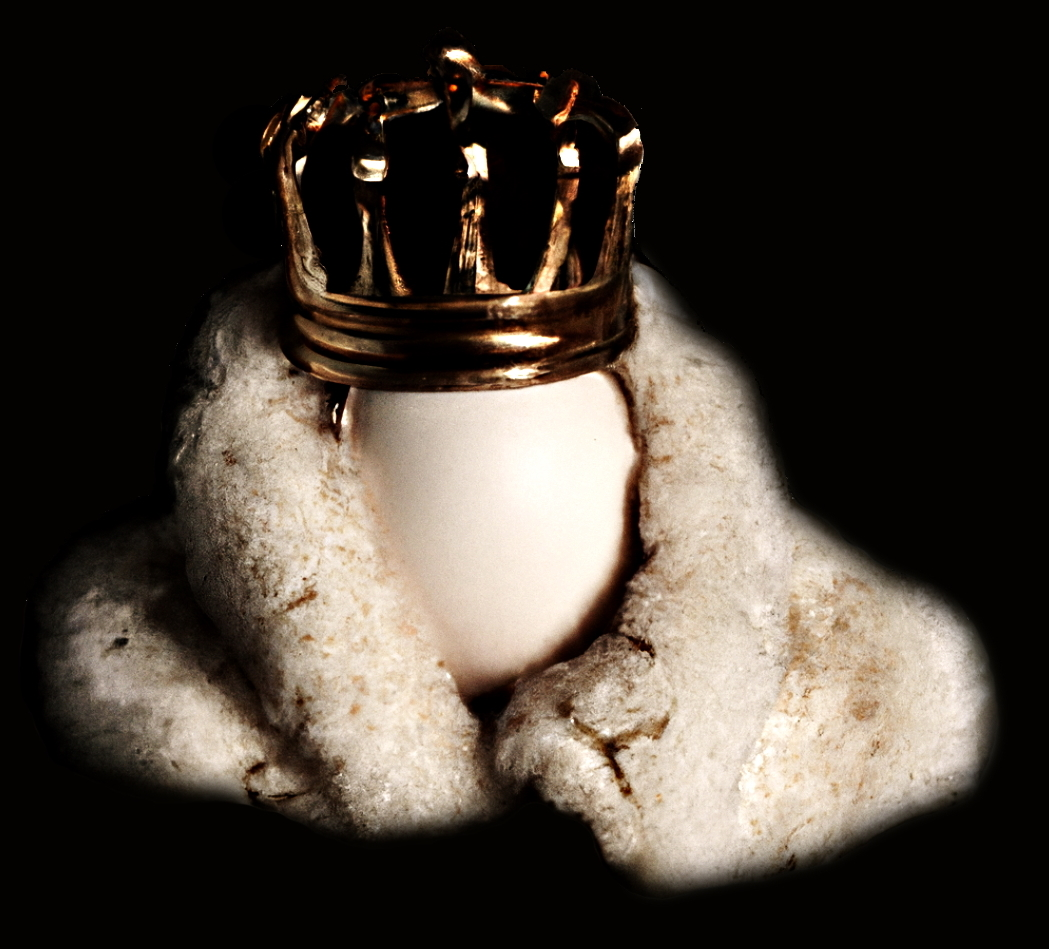
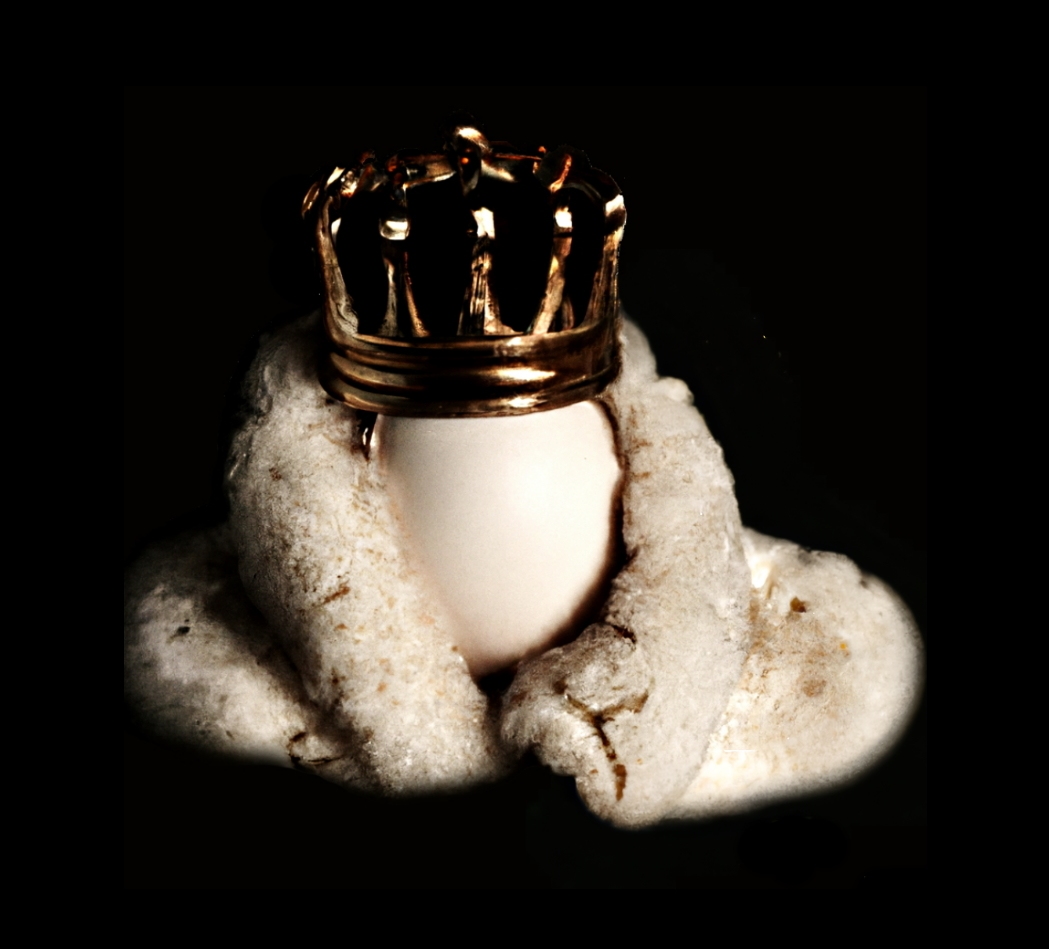
Fixed positions of egg images on the rest of the pages (News / History / Shop / Quiz). Made images slightly smaller. Local hosted them instead of using Flickr

diff --git a/assets/css/style.css b/assets/css/style.css
@@ -152,26 +152,26 @@ header {
 }
 
 #quiz-egg {
-	height: 70vh;
-	background: url("../images/quiz-egg.jpg") no-repeat;
-	background-position: 30% 50%;
+	height: 100vh;
+	background: url("../images/quiz-egg.jpg") no-repeat left;
 	background-size: contain;
 	overflow: hidden;
-	margin-top: 100px;
+	margin-top: 66px;
 }
 
 .margin-bottom {
 	margin-bottom: 120px;
 }
 
-#quiz-egg-text, #history-egg-text, #shop-egg-text {
-	font-size: 500%;
+#quiz-egg-text, #history-egg-text, #shop-egg-text, #news-egg-text {
+	font-size: 300%;
 	font-family: "League Gothic";
 	text-transform: uppercase;
-	text-align: center;
-	right: 30%;
-	top: 260px;
 	position: absolute;
+	top: 50%;
+  left: 65%;
+  transform: translate(-50%, -50%);
+	text-align: center;
 }
 
 #quiz-info {
@@ -217,12 +217,11 @@ table {
 }
 
 #history-egg {
-	height: 70vh;
-	background: url("../images/history-egg.jpg") no-repeat;
-	background-position: 30% 50%;
+	height: 100vh;
+	background: url("../images/history-egg.jpg") no-repeat left;
 	background-size: contain;
 	overflow: hidden;
-	margin-top: 80px;
+	margin-top: 66px;
 }
 
 select {
@@ -391,12 +390,11 @@ blockquote::after {
 }
 
 #shop-egg {
-	height: 70vh;
-	background: url("../images/shop-egg.jpg") no-repeat;
-	background-position: 30% 50%;
+	height: 100vh;
+	background: url("../images/shop-egg.jpg") no-repeat left;
 	background-size: contain;
 	overflow: hidden;
-	margin-top: 100px;
+	margin-top: 66px;
 }
 
 #shop-box {
@@ -416,15 +414,6 @@ blockquote::after {
 	background: rgba(0,0,0,0.80);
 	line-height: 2;
 }
-
-#shop-egg-outer {
-	height: 400px;
-  width: 100vi;
-  background: url(https://live.staticflickr.com/65535/52486632532_640ece6d1c_o_d.jpg) no-repeat center right;
-  background-size: contain;
-  margin-right: 200px;
-}
-
 
 /* Took the next two blocks from https://www.w3schools.com/howto/howto_css_three_columns.asp. Spliced with zazzle code. I don't understand what the point of 'content' is here */
 .column {
@@ -461,22 +450,11 @@ blockquote::after {
 }
 
 #news-egg {
-	height: 70vh;
-	background: url("../images/news-egg.jpg") no-repeat;
-	background-position: 30% 50%;
+	height: 100vh;
+	background: url("../images/news-egg.jpg") no-repeat left;
 	background-size: contain;
 	overflow: hidden;
-	margin-top: 100px;
-}
-
-#news-egg-text {
-	font-size: 500%;
-	font-family: "League Gothic";
-	text-transform: uppercase;
-	text-align: center;
-	right: 35%;
-	top: 260px;
-	position: absolute;
+	margin-top: 66px;
 }
 
 @media screen and (min-width: 944px) and (max-width: 1303px) {

diff --git a/shop.html b/shop.html
@@ -39,13 +39,14 @@
 	</header>
 	<div id="right-logo"></div>
 <!-- 	Big egg and title -->
-	<section class="big-egg-outer margin-bottom"> 
-		<div id="shop-egg"></div>
-		<div id="shop-egg-text">
-			<h1>Shop</h1>
-			<p class="chevron"><i class="fa-solid fa-chevron-down"></i></p>
+	<div id="shop-egg" class="margin-bottom">
+		<div class="text-container">
+			<div id="shop-egg-text">
+				<h1>Shop</h1>
+				<p class="chevron"><i class="fa-solid fa-chevron-down"></i></p>
+			</div>
 		</div>
-	</section>
+	</div>
 <!-- 	Shop paragraph -->
 	<section class="shop-egg-outer margin-bottom"> 
 		<div id="shop-box">

diff --git a/history.html b/history.html
@@ -39,13 +39,14 @@
 	</header>
 	<div id="right-logo"></div>
 	<!-- 	Big Egg image and title -->
-	<section class="big-egg-outer margin-bottom"> 
-		<div id="history-egg"></div>
-		<div id="history-egg-text">
-			<h1>History</h1>
-			<p class="chevron"><i class="fa-solid fa-chevron-down"></i></p>
+	<div id="history-egg" class="margin-bottom">
+		<div class="text-container">
+			<div id="history-egg-text">
+				<h1>History</h1>
+				<p class="chevron"><i class="fa-solid fa-chevron-down"></i></p>
+			</div>
 		</div>
-	</section>
+	</div>
 <!-- 	Article  -->
 	<div id="history-box">
 		<div id="article">

diff --git a/quiz.html b/quiz.html
@@ -39,13 +39,14 @@
 	</header>
 	<div id="right-logo"></div>
 <!-- 	Big Egg image and title -->
-	<section class="big-egg-outer"> 
-		<div id="quiz-egg"></div>
-		<div id="quiz-egg-text">
-			<h1>Egg Quiz</h1>
-			<p class="chevron"><i class="fa-solid fa-chevron-down"></i></p>
+	<div id="quiz-egg">
+		<div class="text-container">
+			<div id="quiz-egg-text">
+				<h1>Egg Quiz</h1>
+				<p class="chevron"><i class="fa-solid fa-chevron-down"></i></p>
+			</div>
 		</div>
-	</section>
+	</div>
 <!-- 	Info about the quiz -->
 	<div>
 		<div id="quiz-info">

diff --git a/news.html b/news.html
@@ -39,13 +39,14 @@
 	</header>
 	<div id="right-logo"></div>
 <!-- 	News Egg and text -->
-	<section class="big-egg-outer margin-bottom"> 
-		<div id="news-egg"></div>
-		<div id="news-egg-text">
-			<h1>News</h1>
-			<p class="chevron"><i class="fa-solid fa-chevron-down"></i></p>
+	<div id="news-egg" class="margin-bottom">
+		<div class="text-container">
+			<div id="news-egg-text">
+				<h1>News</h1>
+				<p class="chevron"><i class="fa-solid fa-chevron-down"></i></p>
+			</div>
 		</div>
-	</section>
+	</div>
 	<div>
 		Egg Champion news
 	</div>
